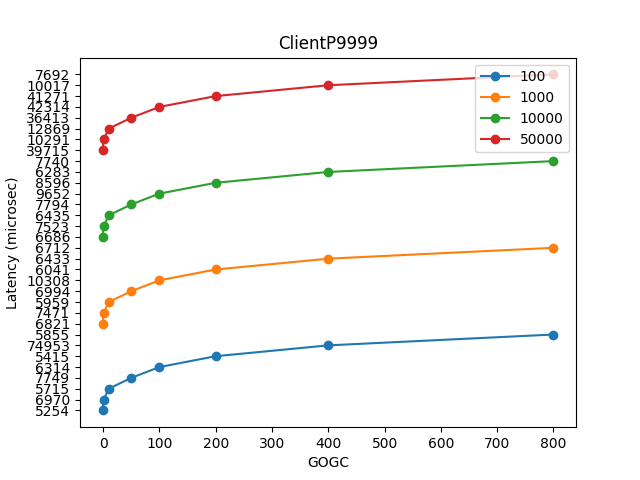
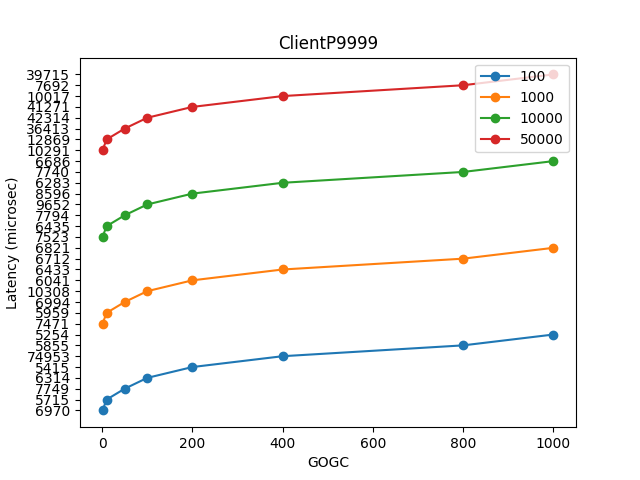
Randomize CPU allocation and increase experiment size

diff --git a/docker-compose/LoadBalancer/loadbalancer.go b/docker-compose/LoadBalancer/loadbalancer.go
@@ -6,15 +6,15 @@ import (
 	"fmt"
 	"io"
 	"io/ioutil"
+	"math/rand"
 	"net/http"
 	"os"
 	"os/exec"
 	"os/signal"
+	"strconv"
 	"strings"
 	"syscall"
 	"time"
-	"math/rand"
-	"strconv"
 )
 
 const (
@@ -26,19 +26,18 @@ const (
 	waitTimeout      = 10 * time.Second
 	serverIP         = "http://128.110.96.59:"
 
-	maxGoHeapSize          = 6692864 // Max size of the heap
-    GoGCTriggerThreshold   = 0.60    // GC is triggered at 55% utilization
-    resumeGoRequestsThreshold = 0.90 // Resume normal operations at 90% idle
+	maxGoHeapSize             = 6692864 // Max size of the heap
+	GoGCTriggerThreshold      = 0.60    // GC is triggered at 55% utilization
+	resumeGoRequestsThreshold = 0.90    // Resume normal operations at 90% idle
 )
 
 // Add scheduling policy selection logic
 type SchedulingPolicy int
 
 const (
-    RoundRobin SchedulingPolicy = 1
-    HeapSizeBased SchedulingPolicy = 2
+	RoundRobin    SchedulingPolicy = 1
+	HeapSizeBased SchedulingPolicy = 2
 )
-
 
 // Start values for port numbers
 var javaRoundRobinIndex int = 8400
@@ -48,7 +47,7 @@ const numberOfJavaContainers int = 1
 const numberOfGoContainers int = 1
 
 // Allocate dedicated CPU for container
-var currentCPUIndex int = 11
+var currentCPUIndex int = 10 + rand.Intn(10)
 
 // Track running containers
 var aliveContainers = make(map[string]string)
@@ -163,10 +162,10 @@ func handleRequest(w http.ResponseWriter, r *http.Request) {
 	case "/exitCall":
 		fmt.Println("Exit call received. Initiating shutdown...")
 		go func() {
-            stopAllRunningContainers()
-            os.Exit(0)
-        }()
-        return
+			stopAllRunningContainers()
+			os.Exit(0)
+		}()
+		return
 	default:
 		http.Error(w, "Requested API Not found", http.StatusNotFound)
 		return
@@ -196,7 +195,7 @@ func handleRequest(w http.ResponseWriter, r *http.Request) {
 
 func scheduleJavaContainer() string {
 	switch currentSchedulingPolicy {
-    case RoundRobin:
+	case RoundRobin:
 		javaRoundRobinIndex = (javaRoundRobinIndex % numberOfJavaContainers) + 8400 // Shift starting port number
 		javaRoundRobinIndex++
 		return javaServerImage + fmt.Sprintf("-%d", javaRoundRobinIndex)
@@ -206,8 +205,8 @@ func scheduleJavaContainer() string {
 		javaRoundRobinIndex++
 		return javaServerImage + fmt.Sprintf("-%d", javaRoundRobinIndex)
 	default:
-        // Default to Round Robin if the policy is not implemented
-        javaRoundRobinIndex = (javaRoundRobinIndex % numberOfJavaContainers) + 8400 // Shift starting port number
+		// Default to Round Robin if the policy is not implemented
+		javaRoundRobinIndex = (javaRoundRobinIndex % numberOfJavaContainers) + 8400 // Shift starting port number
 		javaRoundRobinIndex++
 		return javaServerImage + fmt.Sprintf("-%d", javaRoundRobinIndex)
 	}
@@ -215,7 +214,7 @@ func scheduleJavaContainer() string {
 
 func scheduleGoContainer() string {
 	switch currentSchedulingPolicy {
-    case RoundRobin:
+	case RoundRobin:
 		goRoundRobinIndex = (goRoundRobinIndex % numberOfGoContainers) + 9500
 		goRoundRobinIndex++
 		return goServerImage + fmt.Sprintf("-%d", goRoundRobinIndex)
@@ -223,7 +222,7 @@ func scheduleGoContainer() string {
 		// Choose container based on current heap utilization
 		for containerName, heapIdle := range containerHeapUsage {
 			if strings.HasPrefix(containerName, goServerImage) {
-				heapUtilization := float64(maxGoHeapSize - heapIdle) / float64(maxGoHeapSize)
+				heapUtilization := float64(maxGoHeapSize-heapIdle) / float64(maxGoHeapSize)
 				fmt.Println("Container: %s, Heap Utilization: %f", containerName, heapUtilization)
 				if heapUtilization < GoGCTriggerThreshold {
 					return containerName
@@ -331,56 +330,55 @@ func extractAndLogHeapInfo(responseBody io.Reader, containerName string) {
 // New function to handle fake requests and GC triggering
 func handleGCForGoContainers(containerName string) {
 	requestCounter := 0
-    for {
-        // Fetch the current heap idle value
-        heapIdle := containerHeapUsage[containerName]
-        heapUtilization := float64(maxGoHeapSize - heapIdle) / float64(maxGoHeapSize)
+	for {
+		// Fetch the current heap idle value
+		heapIdle := containerHeapUsage[containerName]
+		heapUtilization := float64(maxGoHeapSize-heapIdle) / float64(maxGoHeapSize)
 
-        // Check if the heap utilization is within the target range
-        if heapUtilization < resumeGoRequestsThreshold {
-            break // Exit the loop if the condition is met
-        }
+		// Check if the heap utilization is within the target range
+		if heapUtilization < resumeGoRequestsThreshold {
+			break // Exit the loop if the condition is met
+		}
 		fmt.Println("Sending fake requests to tip over the server")
-        // Send a fake request if heap utilization is above the trigger threshold
-        if heapUtilization >= GoGCTriggerThreshold {
-            seed := rand.Intn(10000)
-            requestURL := serverIP + containerName[len(goServerImage)+1:] + "/GoNative?seed=" + strconv.Itoa(seed)
+		// Send a fake request if heap utilization is above the trigger threshold
+		if heapUtilization >= GoGCTriggerThreshold {
+			seed := rand.Intn(10000)
+			requestURL := serverIP + containerName[len(goServerImage)+1:] + "/GoNative?seed=" + strconv.Itoa(seed)
 
-            // Process the response to get the latest heap idle value
-            resp, err := http.Get(requestURL)
-            if err != nil {
-                fmt.Println("Error sending fake request:", err)
-                continue
-            }
+			// Process the response to get the latest heap idle value
+			resp, err := http.Get(requestURL)
+			if err != nil {
+				fmt.Println("Error sending fake request:", err)
+				continue
+			}
 
-            // Read and unmarshal the response body
-            responseBody, err := ioutil.ReadAll(resp.Body)
-            resp.Body.Close() // Ensure response body is closed
-            if err != nil {
-                fmt.Println("Error reading response body:", err)
-                continue
-            }
+			// Read and unmarshal the response body
+			responseBody, err := ioutil.ReadAll(resp.Body)
+			resp.Body.Close() // Ensure response body is closed
+			if err != nil {
+				fmt.Println("Error reading response body:", err)
+				continue
+			}
 
-            var goResp GoResponse
-            if err := json.Unmarshal(responseBody, &goResp); err != nil {
-                fmt.Println("Error unmarshalling response:", err)
-                continue
-            }
+			var goResp GoResponse
+			if err := json.Unmarshal(responseBody, &goResp); err != nil {
+				fmt.Println("Error unmarshalling response:", err)
+				continue
+			}
 
-            // Update the heap idle value
-            containerHeapUsage[containerName] = goResp.HeapIdle
+			// Update the heap idle value
+			containerHeapUsage[containerName] = goResp.HeapIdle
 
 			requestCounter++
 			if requestCounter > 10000 {
 				break // prevent infinite loop
 			}
-        }
+		}
 
-        // time.Sleep(1 * time.Second) // Throttle the loop
-    }
+		// time.Sleep(1 * time.Second) // Throttle the loop
+	}
 	fmt.Println("Go container is clean and ready for use again")
 }
-
 
 func logHeapInfo(filename, info string) {
 	fullPath := "/users/am_CU/openwhisk-devtools/docker-compose/LoadBalancer/" + filename
@@ -445,13 +443,13 @@ func startNewContainer(containerName string) {
 	}
 
 	// Assign a specific CPU to the container and increment the CPU index
-    cpuSet := strconv.Itoa(currentCPUIndex)
-    currentCPUIndex++
+	cpuSet := strconv.Itoa(currentCPUIndex)
+	currentCPUIndex++
 
-    // Ensure currentCPUIndex doesn't exceed your system's CPU count
-    if currentCPUIndex >= 31 { // assuming you have 32 CPUs
-        currentCPUIndex = 11 // reset to 11 or handle as needed
-    }
+	// Ensure currentCPUIndex doesn't exceed your system's CPU count
+	if currentCPUIndex >= 31 { // assuming you have 32 CPUs
+		currentCPUIndex = 10 + rand.Intn(10) // reset to 11 or handle as needed
+	}
 
 	cmd := exec.Command("docker", "run", "--cpuset-cpus", cpuSet, "-d", "--rm", "--name", containerName, "-p", portMapping, imageName)
 	if err := cmd.Run(); err != nil {

diff --git a/docker-compose/Experiments/GOGCSweep/plotter.py b/docker-compose/Experiments/GOGCSweep/plotter.py
@@ -7,8 +7,8 @@ directory = './Data'
 
 # Array of sizes and GOGC values
 sizes = [100, 1000, 10000, 50000]
-GOGC = [-1, 1, 10, 50, 100, 200, 400, 800]
-GOGC_plot = [0, 1, 10, 50, 100, 200, 400, 800]
+GOGC = [1, 10, 50, 100, 200, 400, 800, -1]
+GOGC_plot = [1, 10, 50, 100, 200, 400, 800, 1000]
 column_list = ["ArraySize", "ClientP50", "ClientP99", "ClientP999", "ClientP9999", "ServerP50", "ServerP99", "ServerP999", "ServerP9999"]
 
 # Function to read data from all CSV files for a given size
@@ -32,7 +32,7 @@ def plot_data(data, response_type):
     
     plt.figure()
     for val in data:
-        plt.plot(GOGC, val, marker='o')
+        plt.plot(GOGC_plot, val, marker='o')
     plt.title(f"{response_type}")
     plt.xlabel('GOGC')
     plt.ylabel('Latency (microsec)')

diff --git a/docker-compose/Experiments/GOGCSweep/request_sender.go b/docker-compose/Experiments/GOGCSweep/request_sender.go
@@ -17,7 +17,7 @@ import (
 
 // Constants for API endpoints and file names
 const (
-	iterations            = 10000
+	iterations            = 50000
 	javaAPI               = "http://128.110.96.59:8180/java"
 	goAPI                 = "http://128.110.96.59:8180/go"
 	KILL_SERVER_API       = "http://128.110.96.59:8180/exitCall"
